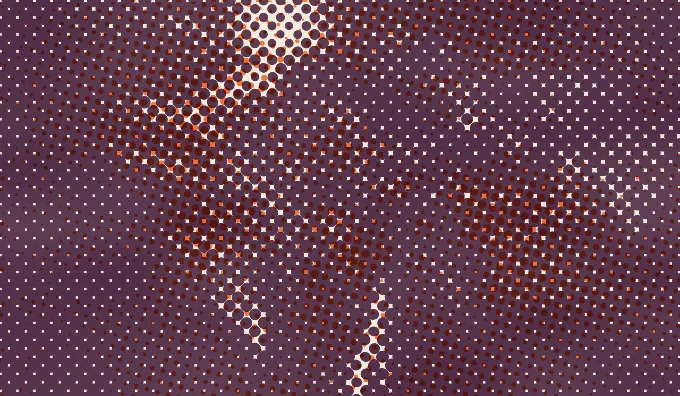
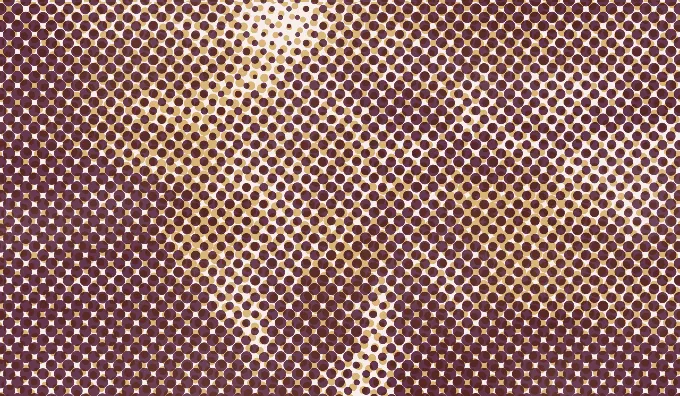
Section colours: one coordinated plum-to-champagne palette
Folder tabs move to plum, rosewood, dusty rose, mauve, blush and
champagne on a blush-white panel. Every riso print now shares one wine
key ink with a soft spot ink from the same family (orchid, coral rose,
pink, lavender, peach, gold), and the key ink is lighter so the spot
colour carries the print.

Claude-Session: https://claude.ai/code/session_017Haibv7GFSv9Gba4skfbtW

diff --git a/src/styles/swatches.css b/src/styles/swatches.css
@@ -15,13 +15,13 @@
 
   /* Section colours. Panels stay a warm off-white; the colour lives on a
      chunky band: the folder tab on the home page, the bar over each head. */
-  --sec-eggplant: #4a2546;
-  --sec-burnt: #a8481c; /* burnt orange */
-  --sec-chartreuse: #9a9e1f; /* olive chartreuse */
-  --sec-ochre: #c8952c; /* mustard ochre */
-  --sec-berry: #7a2f4f;
-  --sec-rose: #e3a9b4;
-  --sec-panel: #f5eee6; /* warm off-white panel */
+  --sec-plum: #6b3a5b; /* plum */
+  --sec-rosewood: #9c4f5a; /* rosewood */
+  --sec-dusty-rose: #c98d97; /* dusty rose */
+  --sec-mauve: #a58bb4; /* mauve */
+  --sec-blush: #e6b7bd; /* blush */
+  --sec-champagne: #e3cba0; /* champagne */
+  --sec-panel: #f7efeb; /* blush-white panel */
   --sec-band: clamp(16px, 1.8vw, 26px); /* bar over each section head */
 
   /* Woven grain: fine noise multiplied over every swatch */
@@ -79,12 +79,12 @@
    its section head. Class names keep the old fabric names so the markup
    doesn't change.
 --------------------------------------------------------------------- */
-.swatch--ticking     { --sec: var(--sec-eggplant);   --print: url('/media/prints/ai-folder.webp');       --print-color: url('/media/prints/ai-folder-color.webp'); }       /* AI tools */
-.swatch--herringbone { --sec: var(--sec-burnt);      --print: url('/media/prints/websites-folder.webp'); --print-color: url('/media/prints/websites-folder-color.webp'); } /* Websites */
-.swatch--gingham     { --sec: var(--sec-chartreuse); --print: url('/media/prints/email-folder.webp');    --print-color: url('/media/prints/email-folder-color.webp'); }    /* Email */
-.swatch--cabana      { --sec: var(--sec-ochre);      --print: url('/media/prints/social-folder.webp');   --print-color: url('/media/prints/social-folder-color.webp'); }   /* Social & video */
-.swatch--linen       { --sec: var(--sec-berry);      --print: url('/media/prints/brand-folder.webp');    --print-color: url('/media/prints/brand-folder-color.webp'); }    /* Brand & design */
-.swatch--plaid       { --sec: var(--sec-rose);       --print: url('/media/prints/resume-folder.webp');   --print-color: url('/media/prints/resume-folder-color.webp'); }   /* Résumé */
+.swatch--ticking     { --sec: var(--sec-plum);   --print: url('/media/prints/ai-folder.webp');       --print-color: url('/media/prints/ai-folder-color.webp'); }       /* AI tools */
+.swatch--herringbone { --sec: var(--sec-rosewood);      --print: url('/media/prints/websites-folder.webp'); --print-color: url('/media/prints/websites-folder-color.webp'); } /* Websites */
+.swatch--gingham     { --sec: var(--sec-dusty-rose); --print: url('/media/prints/email-folder.webp');    --print-color: url('/media/prints/email-folder-color.webp'); }    /* Email */
+.swatch--cabana      { --sec: var(--sec-mauve);      --print: url('/media/prints/social-folder.webp');   --print-color: url('/media/prints/social-folder-color.webp'); }   /* Social & video */
+.swatch--linen       { --sec: var(--sec-blush);      --print: url('/media/prints/brand-folder.webp');    --print-color: url('/media/prints/brand-folder-color.webp'); }    /* Brand & design */
+.swatch--plaid       { --sec: var(--sec-champagne);       --print: url('/media/prints/resume-folder.webp');   --print-color: url('/media/prints/resume-folder-color.webp'); }   /* Résumé */
 
 /* Section heads use the wide crop of the same print */
 .swatch.swatch--ticking     { --print: url('/media/prints/ai-head.webp');       --print-color: url('/media/prints/ai-head-color.webp'); }

diff --git a/scripts/riso-prints.py b/scripts/riso-prints.py
@@ -10,7 +10,8 @@ from PIL import Image, ImageFilter, ImageOps
 import os
 M = os.path.join(os.path.dirname(os.path.abspath(__file__)), '..', 'public', 'media') + '/'
 OUT = M + 'prints/'
-PAPER = np.array([244, 236, 223]) / 255.0
+PAPER = np.array([247, 239, 235]) / 255.0  # blush-white paper
+KEY = '#5c2a45'  # one deep wine key ink for every print, so the set reads as one
 
 # Each print is cut from a logo-free, text-free part of the artwork: no client
 # names or logos. A source is a list of (file, box) tiles, box = (x0, y0, x1, y1)
@@ -20,16 +21,16 @@ FLOWERS = [('gallery/1zkVKnji_n4XbFOemmX-UW3LkxW7zTEPX-1800.webp', (0.0, 0.06, 0
 SECTIONS = {
   # key: (folder tiles, head tiles, ink A (key), ink B (spot))
   'ai':       ([('tool-speaker-1200.webp', (0.44, 0.09, 0.66, 0.30))],
-               [('tool-speaker-1200.webp', (0.44, 0.09, 0.66, 0.30))], '#4a2546', '#ff48b0'),
+               [('tool-speaker-1200.webp', (0.44, 0.09, 0.66, 0.30))], KEY, '#d77fa6'),
   'websites': ([('site-cdc-1600.webp', (0.0, 0.35, 1.0, 0.86))],
-               [('site-cdc-1600.webp', (0.0, 0.35, 1.0, 0.86))], '#a8481c', '#3255a4'),
-  'email':    (FLOWERS, FLOWERS, '#5f6118', '#ff48b0'),
+               [('site-cdc-1600.webp', (0.0, 0.35, 1.0, 0.86))], KEY, '#e0867f'),
+  'email':    (FLOWERS, FLOWERS, KEY, '#f0a3b6'),
   'social':   ([('gallery/km-trivial-matters-1-1800.webp', (0.66, 0.0, 1.0, 1.0))],
-               [('gallery/km-trivial-matters-1-1800.webp', (0.66, 0.0, 1.0, 1.0))], '#2b2a6b', '#e8a522'),
+               [('gallery/km-trivial-matters-1-1800.webp', (0.66, 0.0, 1.0, 1.0))], KEY, '#b597dc'),
   'brand':    ([('gallery/1isAUKSboqf7mWBb8aCoqfzuopII19MVL-1800.webp', (0.07, 0.44, 0.93, 0.86))],
-               [('gallery/1isAUKSboqf7mWBb8aCoqfzuopII19MVL-1800.webp', (0.07, 0.44, 0.93, 0.86))], '#7a2f4f', '#ff6c2f'),
+               [('gallery/1isAUKSboqf7mWBb8aCoqfzuopII19MVL-1800.webp', (0.07, 0.44, 0.93, 0.86))], KEY, '#eeae8c'),
   'resume':   ([('site-matt-chapin-1600.webp', (0.0, 0.10, 1.0, 0.70))],
-               [('site-matt-chapin-1600.webp', (0.0, 0.10, 1.0, 0.70))], '#4a2546', '#ff6c2f'),
+               [('site-matt-chapin-1600.webp', (0.0, 0.10, 1.0, 0.70))], KEY, '#dcbb76'),
 }
 
 def tiles(spec):
@@ -74,9 +75,9 @@ def separate(rgb):
   mx, mn = arr.max(2), arr.min(2)
   sat = np.where(mx > 0, (mx - mn) / np.maximum(mx, 1e-6), 0)
   # key ink: shadows, contrast pushed
-  a = np.clip((1 - lum - 0.12) * 1.35, 0, 1) ** 1.1
+  a = np.clip((1 - lum - 0.22) * 1.05, 0, 1) ** 1.35
   # spot ink: saturated colour and midtones
-  b = np.clip(sat * (0.35 + 0.65 * mx) * 1.25 + (1 - lum) * 0.15, 0, 1)
+  b = np.clip(sat * (0.35 + 0.65 * mx) * 1.25 + (1 - lum) * 0.35, 0, 1)
   b = np.clip(b - a * 0.35, 0, 1)
   return a, b
 
